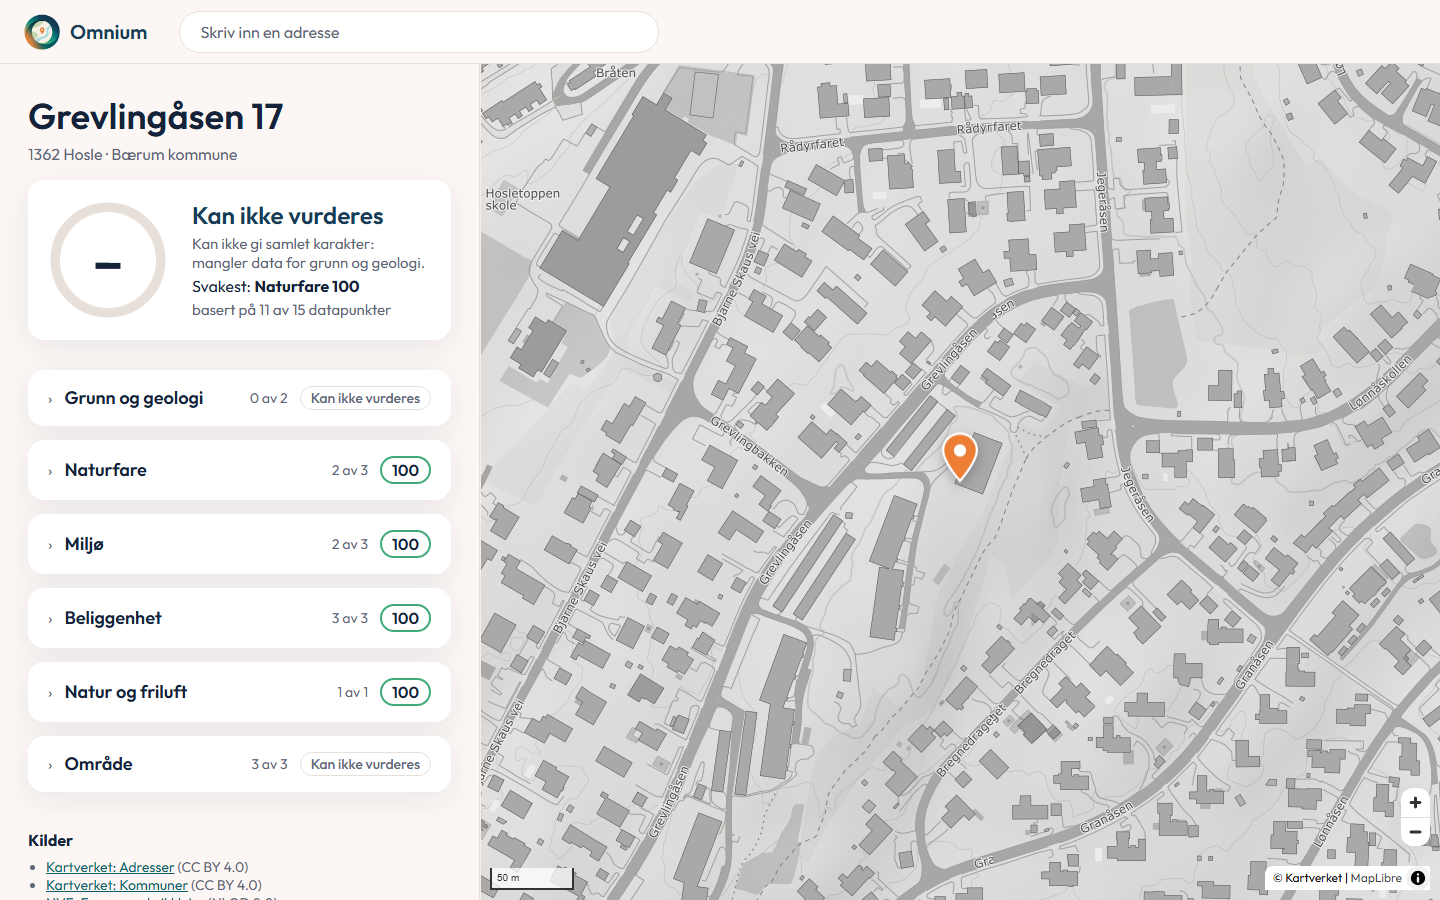
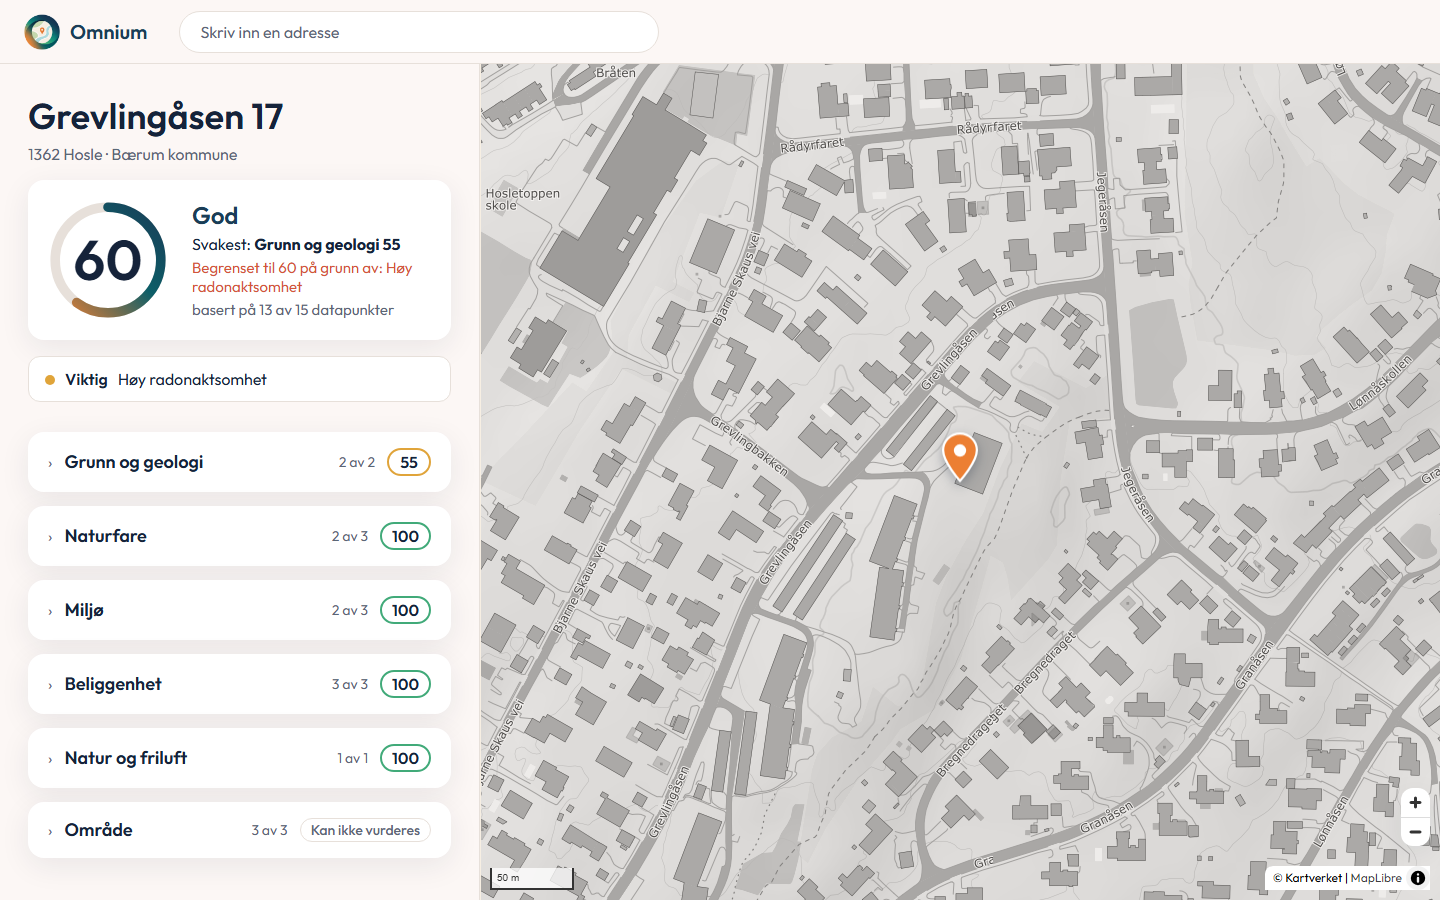
Demo and texts: overall ratings and radon levels now that ground data is in
- DEMO.md: Grevlingåsen 60 (one radon warning) vs Arendalsgata 40 (capped
  by quick clay, shown on the page); pitch lines updated
- FACTS.md, TEXTS.md: radon levels lav, middels, høy, meget høy
- TEST_ADDRESSES.md: radon, soil type and overall rating per address
- Screenshots 2 and 4 retaken with the ratings

diff --git a/docs/DEMO.md b/docs/DEMO.md
@@ -12,8 +12,8 @@ Two homes, both in Bærum/Oslo, both near a bus and a school. On paper they look
 
 | Role | Address | Id | What it shows |
 |---|---|---|---|
-| Start: the calm case | Grevlingåsen 17, 1362 Hosle | `3201-1574-17` | No warnings. Naturfare 100. Bus 82 m, school 256 m, kindergarten 226 m. |
-| Contrast: the hidden risk | Arendalsgata 22, 0463 Oslo | `0301-10223-22` | Warnings: quick-clay zone, faregrad **høy** (NVE), and road noise 65–70 dB (strategic noise map). Also a registered polluted-ground site 17 m away (low). Naturfare 30. Bus 31 m. |
+| Start: the calm case | Grevlingåsen 17, 1362 Hosle | `3201-1574-17` | Overall **60**. Naturfare 100: no quick clay, flood or noise zone. One warning: høy radonaktsomhet (common around Oslo). Bus 82 m, school 256 m, kindergarten 226 m. |
+| Contrast: the hidden risk | Arendalsgata 22, 0463 Oslo | `0301-10223-22` | Warnings: quick-clay zone, faregrad **høy** (NVE), and road noise 65–70 dB (strategic noise map), meget høy radonaktsomhet, marine clay and a polluted-ground site 17 m away. Overall **40**. Naturfare 30. Bus 31 m. |
 | Backup / extra | Nedre Rælingsveg 148, 2005 Rælingen | `3224-8900-148` | Two warnings: 200-year flood zone and red road noise zone. |
 
 Numbers above are from the profile on 2026-11-07. Check them again before the demo (see checklist): they change when data or the rating changes.
@@ -32,7 +32,7 @@ Times are a guide. Bold = what you click or show.
 
 **0:45–1:30 — Det rolige eksempelet: Grevlingåsen 17**
 **Type "Grevlingåsen 17", pick the one in 1362 Hosle.** There is also a Grevlingåsen 17 in 1386 Asker: don't pick that one.
-> Her er et vanlig hus på Hosle i Bærum. Ingen advarsler. Det ligger ikke i noen kartlagt faresone for kvikkleire, ikke i flomsone og ikke i støysone. Bussen er 82 meter unna, skolen 256 meter.
+> Her er et vanlig hus på Hosle i Bærum. Samlet karakter 60. Det ligger ikke i noen kartlagt faresone for kvikkleire, ikke i flomsone og ikke i støysone. Den eneste advarselen er høy aktsomhet for radon, som er vanlig rundt Oslo. Bussen er 82 meter unna, skolen 256 meter.
 **Point at the category cards, then open one data point to show its source and explanation.**
 > Alt vi viser har en kilde. Og vi forklarer hva det betyr for den som bor der.
 
@@ -40,7 +40,8 @@ Times are a guide. Bold = what you click or show.
 **Go back, type "Arendalsgata 22", pick it.**
 > Så en leilighet på Sagene i Oslo. Like nær buss og skole. Men øverst ser du advarsler, den alvorligste først: eiendommen ligger i en faresone for kvikkleireskred med høy faregrad, fra NVE. I tillegg veistøy på 65–70 dB og forurenset grunn registrert i nærheten.
 **Point at the warnings and the low Naturfare score.** (Once Erik adds the quick-clay layer to the map, also point at the zone around the pin.)
-> Karakteren for naturfare faller fra 100 til 30. Den alvorligste risikoen står alltid først, og den kan ikke gjemmes i et snitt.
+**Point at "Begrenset til 40 på grunn av: Faresone for kvikkleireskred" under the score.**
+> Samlet karakter faller fra 60 til 40, og naturfare fra 100 til 30. Og siden står hvorfor: kvikkleiren låser karakteren til maks 40. Den alvorligste risikoen står alltid først, og den kan ikke gjemmes i et snitt.
 
 **2:15–2:40 — Ærlighet om data**
 **Point at a data point shown as "Ikke tilgjengelig".**
@@ -62,12 +63,12 @@ What the pitch needs, and who it depends on. Update this as things land.
 | Address page: warnings, category cards, data points with source | Works | Erik |
 | "Ikke tilgjengelig" for missing data | Works (e.g. Steinsprang under Naturfare) | Erik |
 | Quick-clay zone visible on the map | Not yet: data at `/api/nve_kvikkleire`, no map layer | Erik |
-| Overall rating (a number) | Not yet: "Kan ikke vurderes" until ground data (radon, løsmasser) is loaded | Sverre, Lukas |
+| Overall rating (a number) | Works: Grevlingåsen 60, Arendalsgata 40. Note: any medium warning caps the overall at 60, and high radon is common, so most addresses get exactly 60 | Lukas |
 | Explanations under each data point | Not shown yet: texts in `docs/TEXTS.md`, not in the profile | Lukas |
 | AI summary | Not on the page yet. Endpoint uses `docs/FACTS.md`; needs `ANTHROPIC_API_KEY` | Lukas, Erik |
 | Map tiles | Take 3–5 seconds to appear the first time. Open both pages before presenting | — |
 
-If the overall rating still says "insufficient data" on the day, that is fine: use it in the 2:15 part as the example of honesty.
+For the 2:15 part, open Naturfare on Grevlingåsen: Steinsprang shows "Ikke tilgjengelig".
 
 ## Checklist before presenting
 

diff --git a/docs/FACTS.md b/docs/FACTS.md
@@ -55,8 +55,10 @@ Rules for every sentence:
 
 | When | Sentence | Rank |
 |---|---|---|
-| warning (høy) | Adressen ligger i et område med høy aktsomhet for radon ({src}). | 2 |
-| value starts with "moderat" | Adressen ligger i et område med moderat til lav aktsomhet for radon ({src}). | 5 |
+| value "megetHøy" | Adressen ligger i et område med meget høy aktsomhet for radon ({src}). | 2 |
+| value "høy" | Adressen ligger i et område med høy aktsomhet for radon ({src}). | 2 |
+| value "middels" | Adressen ligger i et område med middels aktsomhet for radon ({src}). | 6 |
+| value "lav" | Adressen ligger i et område med lav aktsomhet for radon ({src}). | 5 |
 
 ### Natural hazards
 
@@ -197,5 +199,5 @@ From `docs/TEST_ADDRESSES.md`. After a change here or in `summary.ts`, the facts
 | 1 | Arendalsgata 22 | Kvikkleire, høy faregrad (rank 1). Veistøy 65–70 dB from the strategic map (rank 2) | Any T-1442 noise zone (no coverage in Oslo) |
 | 2 | Nedre Rælingsveg 148 | 200-årsflom (rank 2). Rød støysone (rank 2) | A second noise warning (strategic map does not warn outside Oslo) |
 | 3 | Gamle Drammensvei 207 | Rød støysone (rank 2) | Kvikkleire, flom |
-| 4 | Grevlingåsen 17 | "ikke i en kartlagt" for quick clay and flood, no noise zone (rank 5) | Any warning |
-| 5 | Holmenkollveien 196 | No warnings. Frognerseteren as nearest stop | Kvikkleire, flom, støy |
+| 4 | Grevlingåsen 17 | "ikke i en kartlagt" for quick clay and flood, no noise zone (rank 5). Høy radonaktsomhet (rank 2) | Any other warning |
+| 5 | Holmenkollveien 196 | Høy radonaktsomhet (rank 2). Frognerseteren as nearest stop | Kvikkleire, flom, støy |

diff --git a/docs/TEST_ADDRESSES.md b/docs/TEST_ADDRESSES.md
@@ -33,7 +33,9 @@ The id is the address id from `docs/PROFILE.md` (`<kommunenummer>-<adressekode>-
 
 - Ski tracks at #5: Turrutebasen (`turruter`) has a trail 45 m away but the nearest ski track 1.2 km away (TRY-løypa). Turrutebasen lacks most Nordmarka ski tracks, so this does not show the ski area well.
 - Polluted ground (`grunnforurensning`) on 2026-11-07: #1 has a registered site 17 m away ("Arendalsgata 3-22", påvirkningsgrad 2: acceptable with today's use). The others have none within 100 m.
-- Radon, soil type (løsmasser), rockfall and avalanche were not checked for any address.
+- Radon and soil type (from Sverre's `radon` and `losmasser`) on 2026-11-07: #1 meget høy radon, marine clay (hav- og fjordavsetning). #2 middels radon, fluvial deposit. #3 meget høy radon. #4 høy radon, fill (fyllmasse). #5 høy radon, bare rock. Not checked against NGU's own map.
+- Overall rating on 2026-11-07: #1 40, #2–#5 60 (medium warnings cap the overall at 60).
+- Rockfall and avalanche were not checked for any address.
 - Strategic noise map (`stoy_strategisk`, 2021) on 2026-11-07: #2 65–70 dB, #3 70–75 dB, #4 no zone (unknown), backup Kjelsåsveien 162 55–60 dB.
 - The road noise map (`Stoyvarselkart`) only covers national and county roads and has no data inside central Oslo. That is why the noisy-road case is in Bærum.
 

diff --git a/docs/TEXTS.md b/docs/TEXTS.md
@@ -21,8 +21,9 @@ How to use this file:
 
 ### `radon` — Radon
 **Forklaring:** Radon er en radioaktiv gass fra berggrunnen som kan sive inn i hus. Det er den viktigste årsaken til lungekreft etter røyking.
-- **Når høy aktsomhet:** Det er større sjanse enn ellers for at hus i området har for mye radon. Bare en måling i huset kan si hvor mye radon det faktisk er.
-- **Når moderat til lav aktsomhet:** Det er mindre sjanse for høye radonverdier, men enkelthus kan likevel ha mye radon.
+- **Når høy eller meget høy aktsomhet:** Det er større sjanse enn ellers for at hus i området har for mye radon. Bare en måling i huset kan si hvor mye radon det faktisk er.
+- **Når middels aktsomhet:** Noen hus i området kan ha for mye radon. Bare en måling i huset kan si hvor mye det faktisk er.
+- **Når lav aktsomhet:** Det er mindre sjanse for høye radonverdier, men enkelthus kan likevel ha mye radon.
 
 ## Naturfare
 
